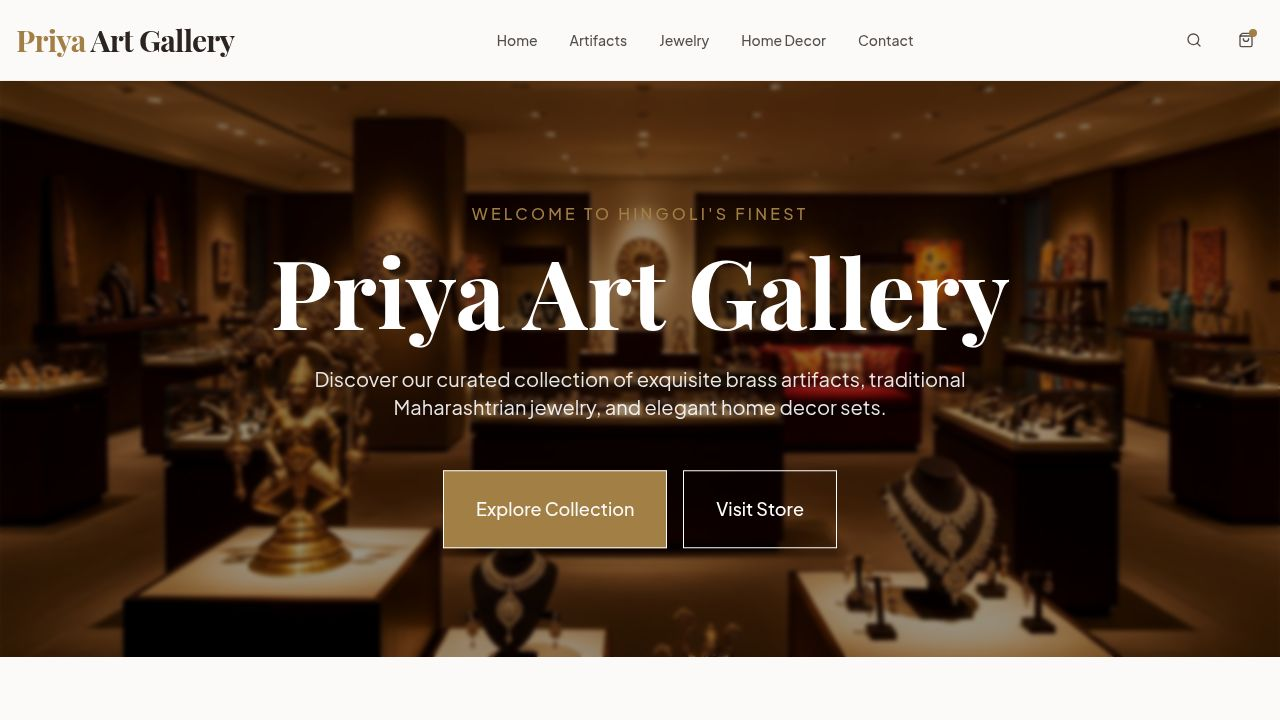
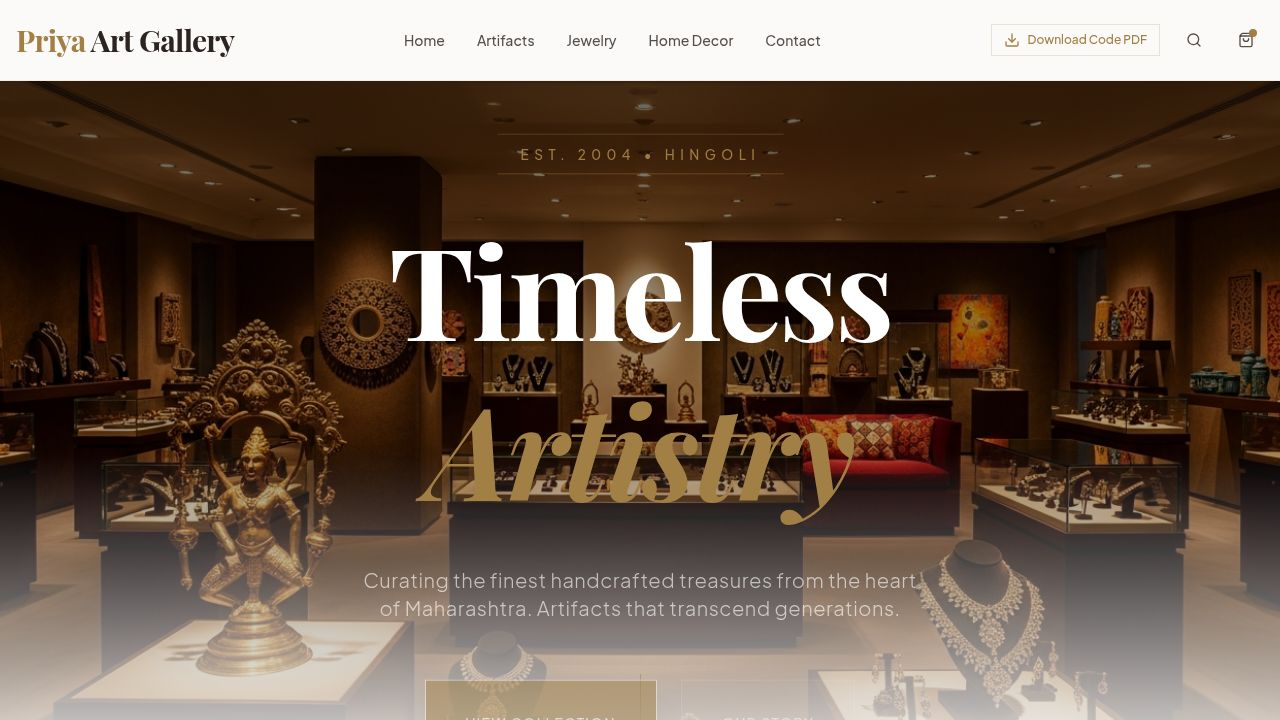
Update contact details and remove prices from product listings
Updated contact information including phone number and email in Footer and Contact components. Removed price display from product listings in Home and Products components. Also updated the Instagram link in the Footer component.

Replit-Commit-Author: Agent
Replit-Commit-Session-Id: 9a9e113e-3063-4710-8c31-20bec933004e
Replit-Commit-Checkpoint-Type: full_checkpoint
Replit-Commit-Event-Id: 5cb09553-2045-454f-b3db-90855aecc4ab
Replit-Commit-Screenshot-Url: https://storage.googleapis.com/screenshot-production-us-central1/e1607c71-2449-45de-9eac-1a237e7d466e/9a9e113e-3063-4710-8c31-20bec933004e/L8njFTu
Replit-Helium-Checkpoint-Created: true

diff --git a/client/src/pages/Products.tsx b/client/src/pages/Products.tsx
@@ -11,12 +11,12 @@ import prodJewelry from "@/assets/images/product-jewelry.png";
 import prodDecor from "@/assets/images/product-decor.png";
 
 const allProducts = [
-  { id: 1, name: "Carved Ganesha Idol", price: "₹4,500", image: prodArtifact, category: "artifacts" },
-  { id: 2, name: "Kundan Bridal Set", price: "₹25,000", image: prodJewelry, category: "jewelry" },
-  { id: 3, name: "Wooden Wall Panel", price: "₹8,200", image: prodDecor, category: "decor" },
-  { id: 4, name: "Brass Nataraja", price: "₹12,000", image: prodArtifact, category: "artifacts" },
-  { id: 5, name: "Temple Temple Necklace", price: "₹18,500", image: prodJewelry, category: "jewelry" },
-  { id: 6, name: "Brass Hanging Diya", price: "₹3,400", image: prodDecor, category: "decor" },
+  { id: 1, name: "Carved Ganesha Idol", image: prodArtifact, category: "artifacts" },
+  { id: 2, name: "Kundan Bridal Set", image: prodJewelry, category: "jewelry" },
+  { id: 3, name: "Wooden Wall Panel", image: prodDecor, category: "decor" },
+  { id: 4, name: "Brass Nataraja", image: prodArtifact, category: "artifacts" },
+  { id: 5, name: "Temple Temple Necklace", image: prodJewelry, category: "jewelry" },
+  { id: 6, name: "Brass Hanging Diya", image: prodDecor, category: "decor" },
 ];
 
 export default function Products() {
@@ -85,7 +85,6 @@ export default function Products() {
                 </div>
                 <div className="text-center">
                   <h3 className="font-serif text-lg mb-1">{product.name}</h3>
-                  <p className="text-primary font-medium">{product.price}</p>
                 </div>
               </div>
             ))}

diff --git a/client/src/components/Footer.tsx b/client/src/components/Footer.tsx
@@ -13,7 +13,7 @@ export default function Footer() {
               Bringing the rich heritage of Maharashtra to your home.
             </p>
             <div className="flex space-x-4">
-              <a href="#" className="p-2 rounded-full bg-secondary-foreground/10 hover:bg-primary transition-colors">
+              <a href="https://www.instagram.com/priyaaartgalery?igsh=MWtidjR3NjhqZWwyNw==" target="_blank" rel="noopener noreferrer" className="p-2 rounded-full bg-secondary-foreground/10 hover:bg-primary transition-colors">
                 <Instagram className="w-5 h-5" />
               </a>
               <a href="#" className="p-2 rounded-full bg-secondary-foreground/10 hover:bg-primary transition-colors">
@@ -53,11 +53,11 @@ export default function Footer() {
               </li>
               <li className="flex items-center gap-3">
                 <Phone className="w-5 h-5 text-primary shrink-0" />
-                <span className="text-secondary-foreground/80 text-sm">+91 98765 43210</span>
+                <span className="text-secondary-foreground/80 text-sm">+91 75585 99155</span>
               </li>
               <li className="flex items-center gap-3">
                 <Mail className="w-5 h-5 text-primary shrink-0" />
-                <span className="text-secondary-foreground/80 text-sm">hello@priyaartgallery.com</span>
+                <span className="text-secondary-foreground/80 text-sm">priya03kabra@gmail.com</span>
               </li>
             </ul>
           </div>

diff --git a/client/src/pages/Home.tsx b/client/src/pages/Home.tsx
@@ -136,9 +136,9 @@ export default function Home() {
 
             <div className="grid grid-cols-1 sm:grid-cols-2 lg:grid-cols-3 gap-8">
               {[
-                { name: "Carved Ganesha Idol", price: "₹4,500", image: prodArtifact, category: "Artifacts" },
-                { name: "Kundan Bridal Set", price: "₹25,000", image: prodJewelry, category: "Jewelry" },
-                { name: "Wooden Wall Panel", price: "₹8,200", image: prodDecor, category: "Home Decor" },
+                { name: "Carved Ganesha Idol", image: prodArtifact, category: "Artifacts" },
+                { name: "Kundan Bridal Set", image: prodJewelry, category: "Jewelry" },
+                { name: "Wooden Wall Panel", image: prodDecor, category: "Home Decor" },
               ].map((product, i) => (
                 <div key={i} className="group cursor-pointer">
                   <div className="relative aspect-square overflow-hidden bg-muted mb-4">
@@ -154,7 +154,6 @@ export default function Home() {
                     </div>
                   </div>
                   <h3 className="font-serif text-xl mb-1 group-hover:text-primary transition-colors">{product.name}</h3>
-                  <p className="text-muted-foreground">{product.price}</p>
                 </div>
               ))}
             </div>

diff --git a/client/src/pages/Contact.tsx b/client/src/pages/Contact.tsx
@@ -62,8 +62,7 @@ export default function Contact() {
                   <div>
                     <h3 className="font-semibold text-lg mb-1">Contact Numbers</h3>
                     <p className="text-muted-foreground">
-                      +91 98765 43210<br />
-                      +91 98765 43211
+                      +91 75585 99155
                     </p>
                   </div>
                 </div>
@@ -75,8 +74,7 @@ export default function Contact() {
                   <div>
                     <h3 className="font-semibold text-lg mb-1">Email</h3>
                     <p className="text-muted-foreground">
-                      hello@priyaartgallery.com<br />
-                      orders@priyaartgallery.com
+                      priya03kabra@gmail.com
                     </p>
                   </div>
                 </div>
